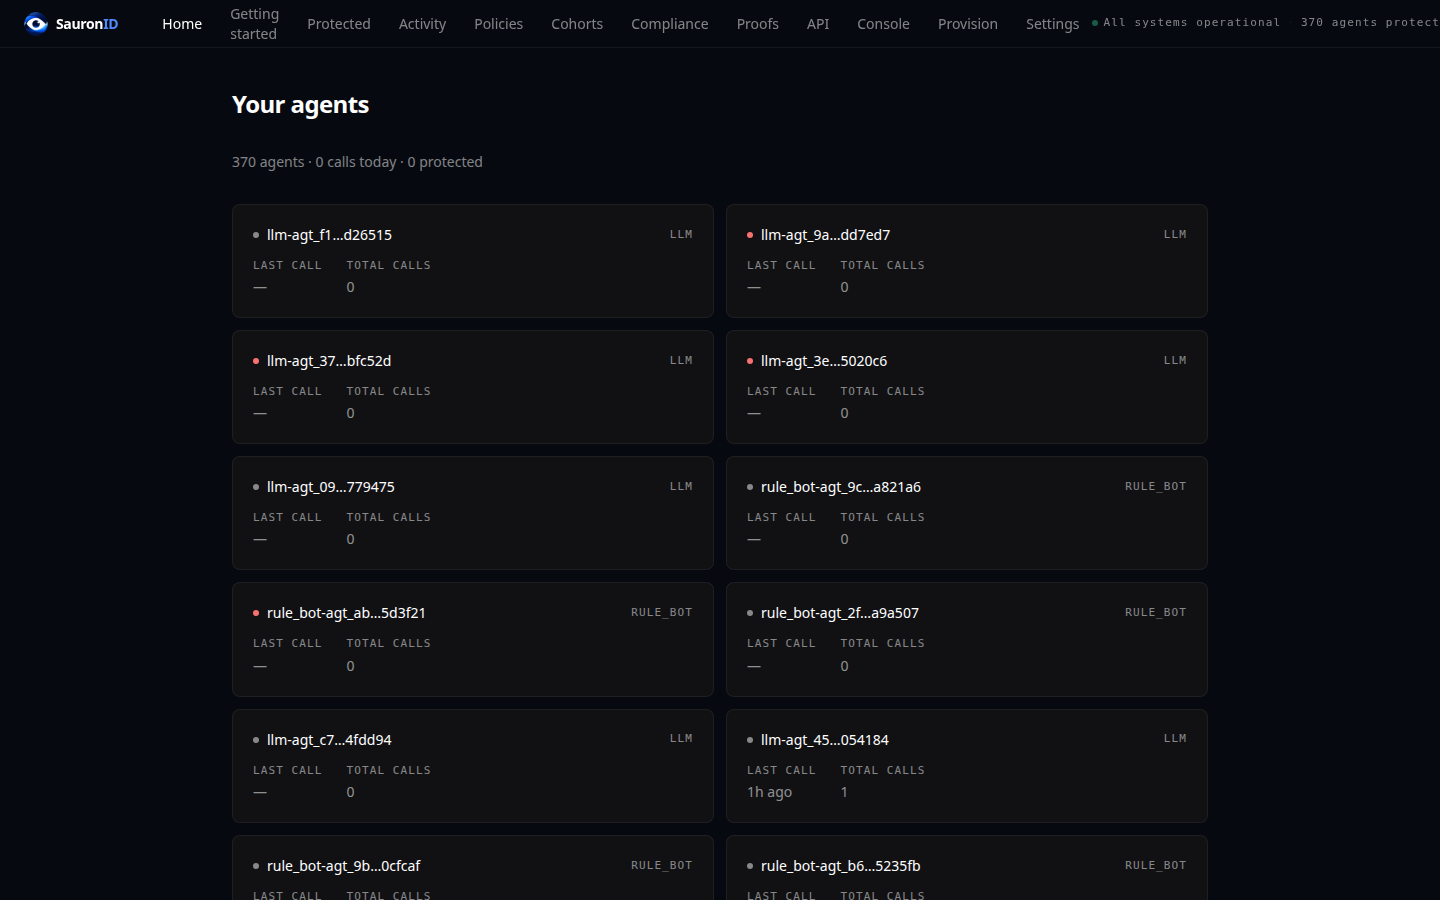
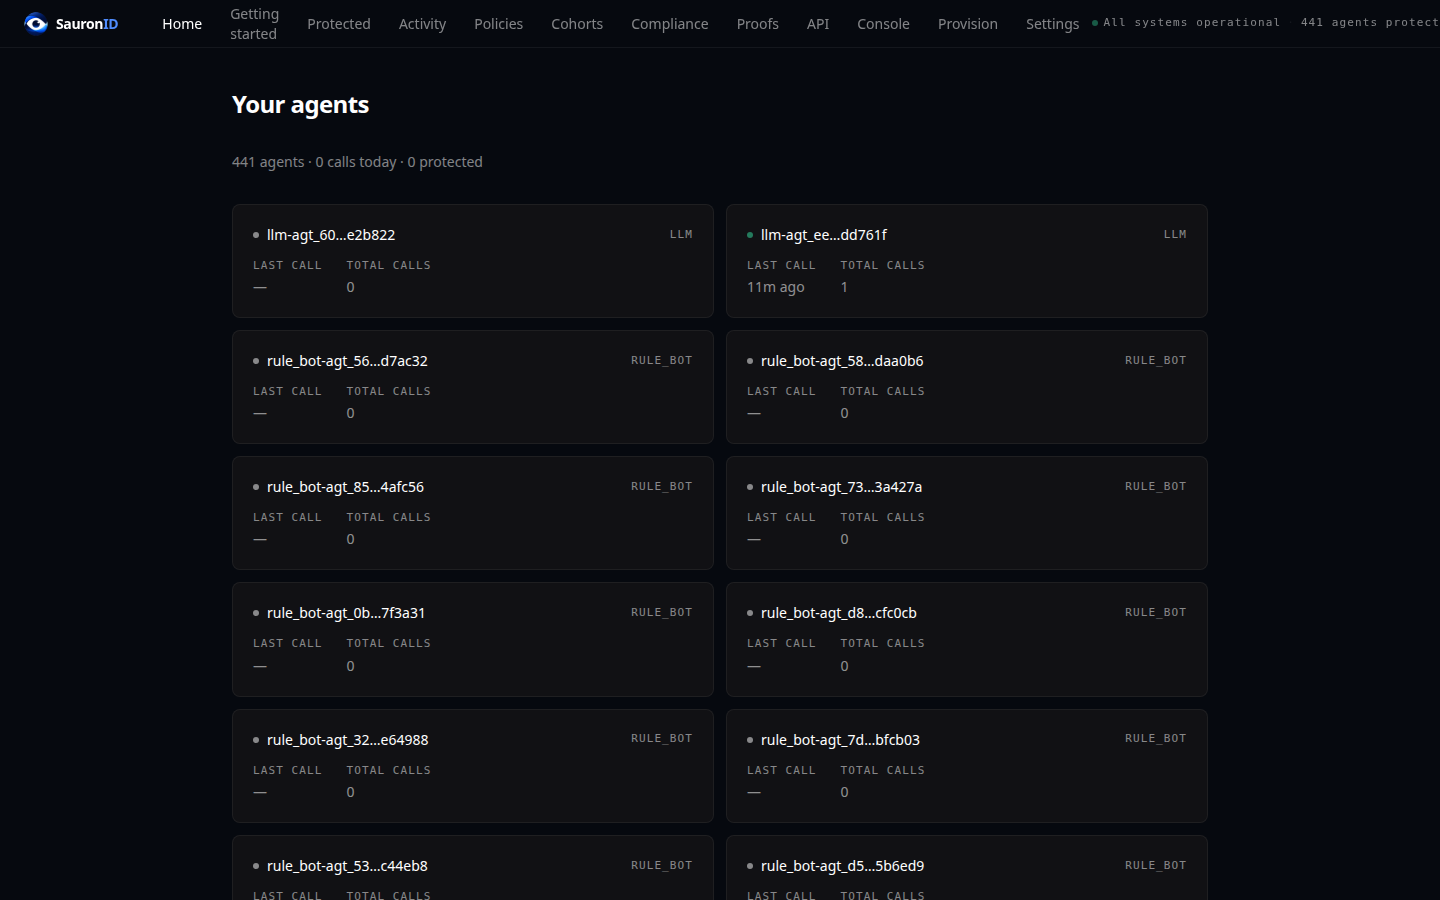
feat(anchor): anchor for real by default, and say which provider wrote each row
The demo anchored with the mock provider — a synthetic txid that is on no chain —
while the Proofs page said "committed to Bitcoin" next to a "Verify on OTS" link
and a "Download proof" button that 404s. Anyone who clicked found out.

Real anchoring costs nothing, so mock is no longer the default. OpenTimestamps
calendars aggregate thousands of digests into one transaction they pay for; the
receipt upgrades into a full Bitcoin attestation in about an hour. docker-compose
now runs opentimestamps by default, with SAURON_BITCOIN_ANCHOR_PROVIDER=mock kept
for offline work (CI, no network), and a 60s anchor interval instead of 10 min so
a demo produces a real batch while someone is watching. The task only submits
when receipts are pending, so an idle stack never polls the calendars.

/admin/anchor/status now reports bitcoin_provider, bitcoin_network and
bitcoin_synthetic (the count written by the mock provider), because a UI cannot
be honest about an anchor whose provider it is never told.

The Proofs page uses it, at page level and per row:
- header shows the provider and network; the "Verify on OTS" link only appears
  when anchoring is real
- a mock or disabled deployment gets an explicit banner instead of a Bitcoin claim
- each row reads its own provider: mock rows show "— not anchored (mock)" and no
  download link, so a deployment switched from mock to real shows its history
  truthfully rather than relabelling it
[…]

diff --git a/dashboard/app/proofs/page.tsx b/dashboard/app/proofs/page.tsx
@@ -13,22 +13,53 @@ export default async function ProofsPage() {
   const batchesRes = await fetchAnchorBatches();
   const batches = batchesRes.ok ? batchesRes.data : [];
 
+  // A mock anchor writes a synthetic txid that exists on no chain. Saying
+  // "committed to Bitcoin" over those numbers, next to a "Verify on OTS" link
+  // that cannot resolve them, is the one claim on this page that would not
+  // survive someone clicking it.
+  const provider = anchors?.bitcoin_provider ?? "unknown";
+  const anchoringIsReal = provider === "opentimestamps";
+  const providerNote =
+    provider === "mock"
+      ? "Mock anchor provider: these roots are recorded locally with a synthetic txid and are on no chain. Set SAURON_BITCOIN_ANCHOR_PROVIDER=opentimestamps to anchor for real — the calendar is free."
+      : provider === "disabled"
+        ? "Anchoring is disabled on this deployment."
+        : provider === "opentimestamps"
+          ? null
+          : "Anchor provider not reported by the core — treat these roots as unanchored until it is.";
+
   return (
     <PageShell title={t("title")} subtitle={t("subtitle")}>
+      {providerNote && (
+        <p
+          role="status"
+          className="mb-4 rounded-md border border-[var(--border)] px-4 py-3 text-sm text-[var(--text-secondary)]"
+        >
+          {providerNote}
+        </p>
+      )}
       <div className="grid grid-cols-1 sm:grid-cols-2 gap-4">
         {/* Bitcoin */}
         <Card>
           <CardBody>
             <div className="flex items-center justify-between mb-4">
-              <p className="text-mono-sm text-[var(--text-muted)] uppercase">{t("bitcoin")}</p>
-              <a
-                href="https://opentimestamps.org"
-                target="_blank"
-                rel="noopener noreferrer"
-                className="text-mono-sm text-[var(--accent-text)] hover:text-[var(--accent-hover)] transition-colors duration-150"
-              >
-                {t("verifyOn", { chain: "OTS" })} →
-              </a>
+              <p className="text-mono-sm text-[var(--text-muted)] uppercase">
+                {t("bitcoin")}
+                <span className="ml-2 normal-case text-[var(--text-muted)]">
+                  {provider}
+                  {anchors?.bitcoin_network ? ` · ${anchors.bitcoin_network}` : ""}
+                </span>
+              </p>
+              {anchoringIsReal && (
+                <a
+                  href="https://opentimestamps.org"
+                  target="_blank"
+                  rel="noopener noreferrer"
+                  className="text-mono-sm text-[var(--accent-text)] hover:text-[var(--accent-hover)] transition-colors duration-150"
+                >
+                  {t("verifyOn", { chain: "OTS" })} →
+                </a>
+              )}
             </div>
             <dl className="space-y-3">
               {[
@@ -97,11 +128,12 @@ export default async function ProofsPage() {
         </Card>
       </div>
 
-      {/* The actual proofs — each batch is a Merkle root committed to Bitcoin. */}
+      {/* Each batch is a Merkle root. Whether it is committed to Bitcoin at all
+          depends on the configured provider — see providerNote above. */}
       <div className="mt-6">
         <div className="flex items-center gap-3 mb-3 flex-wrap">
           <p className="text-mono-sm text-[var(--text-muted)] uppercase">
-            Anchored batches ({batches.length})
+            {anchoringIsReal ? "Anchored batches" : "Recorded batches"} ({batches.length})
           </p>
           <details className="text-xs text-[var(--text-muted)]">
             <summary className="cursor-pointer hover:text-[var(--text-secondary)] select-none">
@@ -109,8 +141,10 @@ export default async function ProofsPage() {
             </summary>
             <div className="mt-2 max-w-prose text-[var(--text-secondary)] leading-relaxed">
               Every action an agent takes is fingerprinted, and the whole batch
-              is reduced to one short code — a “Merkle root.” That root is
-              committed to the Bitcoin blockchain through OpenTimestamps. Once
+              is reduced to one short code — a “Merkle root.” With the
+              OpenTimestamps provider configured, that root is committed to the
+              Bitcoin blockchain; with the mock provider it is only recorded
+              locally, which the banner above says outright. Once
               Bitcoin confirms it (about an hour), the record is permanent and
               public: no one — not an attacker, not even us — can change what
               the agents did without breaking the on-chain match. Click
@@ -129,7 +163,9 @@ export default async function ProofsPage() {
             <table className="w-full text-sm">
               <thead>
                 <tr className="text-left text-[var(--text-muted)] border-b border-[var(--border)]">
-                  <th className="px-4 py-2 font-normal text-xs uppercase">Merkle root (committed to Bitcoin)</th>
+                  {/* Neutral: whether a given root is committed is per row, in
+                      the Bitcoin column — the table can hold both. */}
+                  <th className="px-4 py-2 font-normal text-xs uppercase">Merkle root</th>
                   <th className="px-4 py-2 font-normal text-xs uppercase">Actions</th>
                   <th className="px-4 py-2 font-normal text-xs uppercase">Bitcoin</th>
                   <th className="px-4 py-2 font-normal text-xs uppercase">When</th>
@@ -144,7 +180,14 @@ export default async function ProofsPage() {
                     </td>
                     <td className="px-4 py-2 text-[var(--text-secondary)] tabular-nums">{b.n_actions}</td>
                     <td className="px-4 py-2">
-                      {b.btc_confirmed ? (
+                      {b.btc_provider === "mock" ? (
+                        <span
+                          className="text-[var(--text-muted)]"
+                          title="Written by the mock anchor provider: synthetic txid, on no chain, nothing to download."
+                        >
+                          — not anchored (mock)
+                        </span>
+                      ) : b.btc_confirmed ? (
                         <span className="text-[var(--status-ok)]">✓ confirmed</span>
                       ) : (
                         <span className="text-[var(--text-muted)]">⏳ pending (~1h)</span>
@@ -152,7 +195,7 @@ export default async function ProofsPage() {
                     </td>
                     <td className="px-4 py-2 text-[var(--text-secondary)]">{fmtRelativeTime(b.created_at)}</td>
                     <td className="px-4 py-2">
-                      {b.btc_anchor_id ? (
+                      {b.btc_anchor_id && b.btc_provider === "opentimestamps" ? (
                         <a
                           href={`/api/proofs/ots/${encodeURIComponent(b.btc_anchor_id)}`}
                           className="text-[var(--accent-text)] hover:text-[var(--accent-hover)] transition-colors duration-150"
@@ -173,8 +216,9 @@ export default async function ProofsPage() {
           </div>
         )}
         <p className="mt-3 text-mono-sm text-[var(--text-muted)]">
-          Each root is the cryptographic fingerprint of a batch of agent actions, committed to
-          Bitcoin. Altering any past action would change its root and break the on-chain match.
+          Each root is the cryptographic fingerprint of a batch of agent actions. Where the Bitcoin
+          column shows a real anchor, altering any past action would change its root and break the
+          on-chain match.
         </p>
       </div>
     </PageShell>

diff --git a/dashboard/app/api/proofs/batches/route.ts b/dashboard/app/api/proofs/batches/route.ts
@@ -1,12 +1,16 @@
 import { fetchCoreJson } from "../../_proxy";
 
-// Per-batch anchor proofs: each row is a Merkle root committed to Bitcoin.
+// Per-batch anchor proofs. Whether a row is committed to Bitcoin at all depends
+// on the provider that wrote it: rows written by the mock provider have a
+// synthetic txid, no downloadable .ots, and belong on no chain. The provider is
+// per row because a deployment can be switched from mock to opentimestamps and
+// keep its history.
 interface CoreBatch {
   anchor_id: string;
   batch_root_hex: string;
   n_actions: number;
   created_at: number;
-  bitcoin?: { ots_upgraded?: boolean };
+  bitcoin?: { ots_upgraded?: boolean; provider?: string };
   btc_anchor_id?: string;
 }
 
@@ -20,6 +24,7 @@ export async function GET(req: Request) {
     created_at: new Date((b.created_at || 0) * 1000).toISOString(),
     btc_confirmed: !!b.bitcoin?.ots_upgraded,
     btc_anchor_id: b.btc_anchor_id || "",
+    btc_provider: b.bitcoin?.provider || "",
   }));
   return Response.json(out);
 }

diff --git a/dashboard/app/api/_adapters.ts b/dashboard/app/api/_adapters.ts
@@ -40,6 +40,9 @@ export interface CoreActionReceipt {
 }
 
 export interface CoreAnchorStatus {
+  bitcoin_provider?: string;
+  bitcoin_network?: string;
+  bitcoin_synthetic?: number;
   bitcoin_total: number;
   bitcoin_pending_upgrade: number;
   bitcoin_upgraded: number;
@@ -253,6 +256,11 @@ export function adaptAuditEvents(
 
 export function adaptAnchorStats(s: CoreAnchorStatus): AnchorStats {
   return {
+    // Optional on the wire so an older core still adapts; "unknown" is rendered
+    // as "provider not reported", never as a Bitcoin commitment.
+    bitcoin_provider: s.bitcoin_provider ?? "unknown",
+    bitcoin_network: s.bitcoin_network ?? "",
+    bitcoin_synthetic: s.bitcoin_synthetic ?? 0,
     bitcoin_total: s.bitcoin_total,
     bitcoin_pending: s.bitcoin_pending_upgrade,
     bitcoin_confirmed: s.bitcoin_upgraded,

diff --git a/dashboard/lib/api.ts b/dashboard/lib/api.ts
@@ -58,6 +58,11 @@ export interface ActivityCall {
 }
 
 export interface AnchorStats {
+  /// "opentimestamps" | "mock" | "disabled" | "unknown"
+  bitcoin_provider: string;
+  bitcoin_network: string;
+  /// Anchors written by the mock provider: synthetic txid, on no chain.
+  bitcoin_synthetic: number;
   bitcoin_total: number;
   bitcoin_pending: number;
   bitcoin_confirmed: number;
@@ -237,6 +242,9 @@ export interface AnchorBatch {
   created_at: string;
   btc_confirmed: boolean;
   btc_anchor_id: string;
+  /// Provider that wrote THIS row: "opentimestamps" (a real, downloadable proof)
+  /// or "mock" (synthetic txid, nothing to download, on no chain).
+  btc_provider: string;
 }
 
 export async function fetchAnchorBatches(): Promise<ApiResult<AnchorBatch[]>> {

diff --git a/core/src/admin.rs b/core/src/admin.rs
@@ -1543,6 +1543,14 @@ pub async fn issue_admin_key(
 
 #[derive(Serialize, Default)]
 pub struct AdminAnchorStatus {
+    /// Configured provider: "opentimestamps", "mock", or "disabled". Callers MUST
+    /// surface this: a mock anchor writes a synthetic txid that is not on any
+    /// chain, and a UI that says "committed to Bitcoin" without it is lying.
+    pub bitcoin_provider: String,
+    pub bitcoin_network: String,
+    /// Anchors recorded with `no_real_money = 1` — i.e. written by the mock
+    /// provider and verifiable nowhere.
+    pub bitcoin_synthetic: i64,
     pub bitcoin_total: i64,
     pub bitcoin_pending_upgrade: i64,
     pub bitcoin_upgraded: i64,
@@ -1567,6 +1575,16 @@ pub async fn get_anchor_status(
     let st = state.read().unwrap();
     let db = st.db.lock().unwrap();
     let mut s = AdminAnchorStatus::default();
+    s.bitcoin_provider = crate::bitcoin_anchor::configured_provider_label();
+    s.bitcoin_network = crate::bitcoin_anchor::configured_network_label();
+    s.bitcoin_synthetic = db
+        .query_row(
+            "SELECT COUNT(*) FROM bitcoin_merkle_anchors
+             WHERE no_real_money = 1 AND (?1 = '*' OR tenant_id = ?1)",
+            params![scope],
+            |r| r.get(0),
+        )
+        .unwrap_or(0);
     s.bitcoin_total = db
         .query_row(
             "SELECT COUNT(*) FROM bitcoin_merkle_anchors WHERE (?1 = '*' OR tenant_id = ?1)",

diff --git a/core/src/bitcoin_anchor.rs b/core/src/bitcoin_anchor.rs
@@ -43,6 +43,29 @@ pub enum AnchorProvider {
     OpenTimestamps,
 }
 
+/// Normalised provider name for status endpoints: "opentimestamps", "mock", or
+/// "disabled". Read from the environment rather than a live service handle so a
+/// status caller gets the same answer whether or not anything has anchored yet.
+pub fn configured_provider_label() -> String {
+    let raw = std::env::var("SAURON_BITCOIN_ANCHOR_PROVIDER")
+        .unwrap_or_else(|_| "mock".to_string())
+        .trim()
+        .to_ascii_lowercase();
+    match raw.as_str() {
+        "" | "disabled" | "none" => "disabled".to_string(),
+        "ots" | "opentimestamps" => "opentimestamps".to_string(),
+        "mock" => "mock".to_string(),
+        other => format!("unknown:{other}"),
+    }
+}
+
+pub fn configured_network_label() -> String {
+    std::env::var("SAURON_BITCOIN_NETWORK")
+        .unwrap_or_else(|_| "regtest-mock".to_string())
+        .trim()
+        .to_ascii_lowercase()
+}
+
 #[derive(Clone)]
 pub struct BitcoinAnchorService {
     provider: AnchorProvider,
